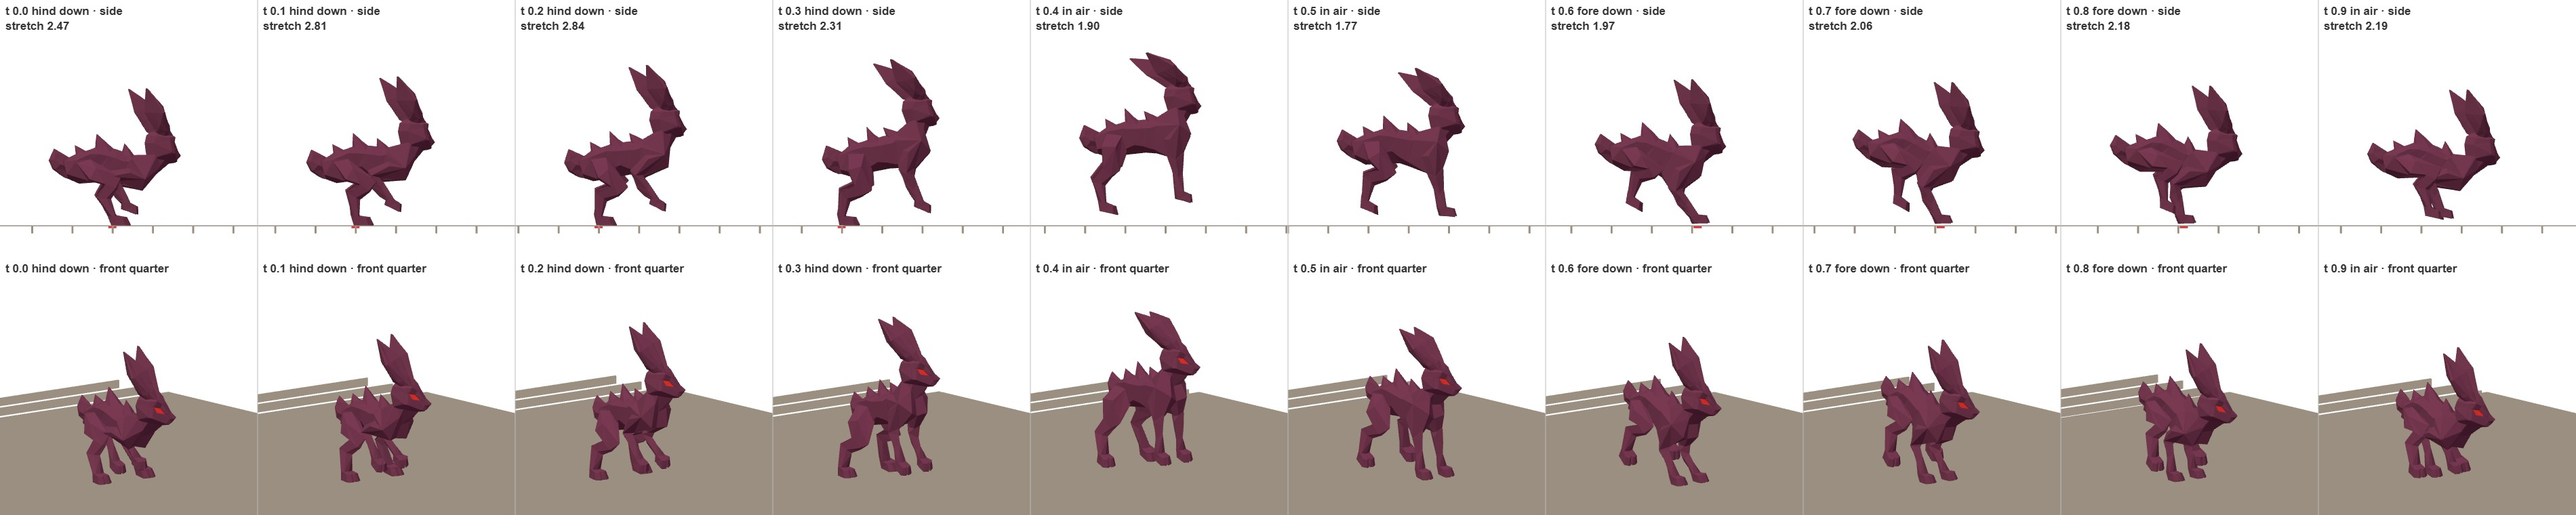
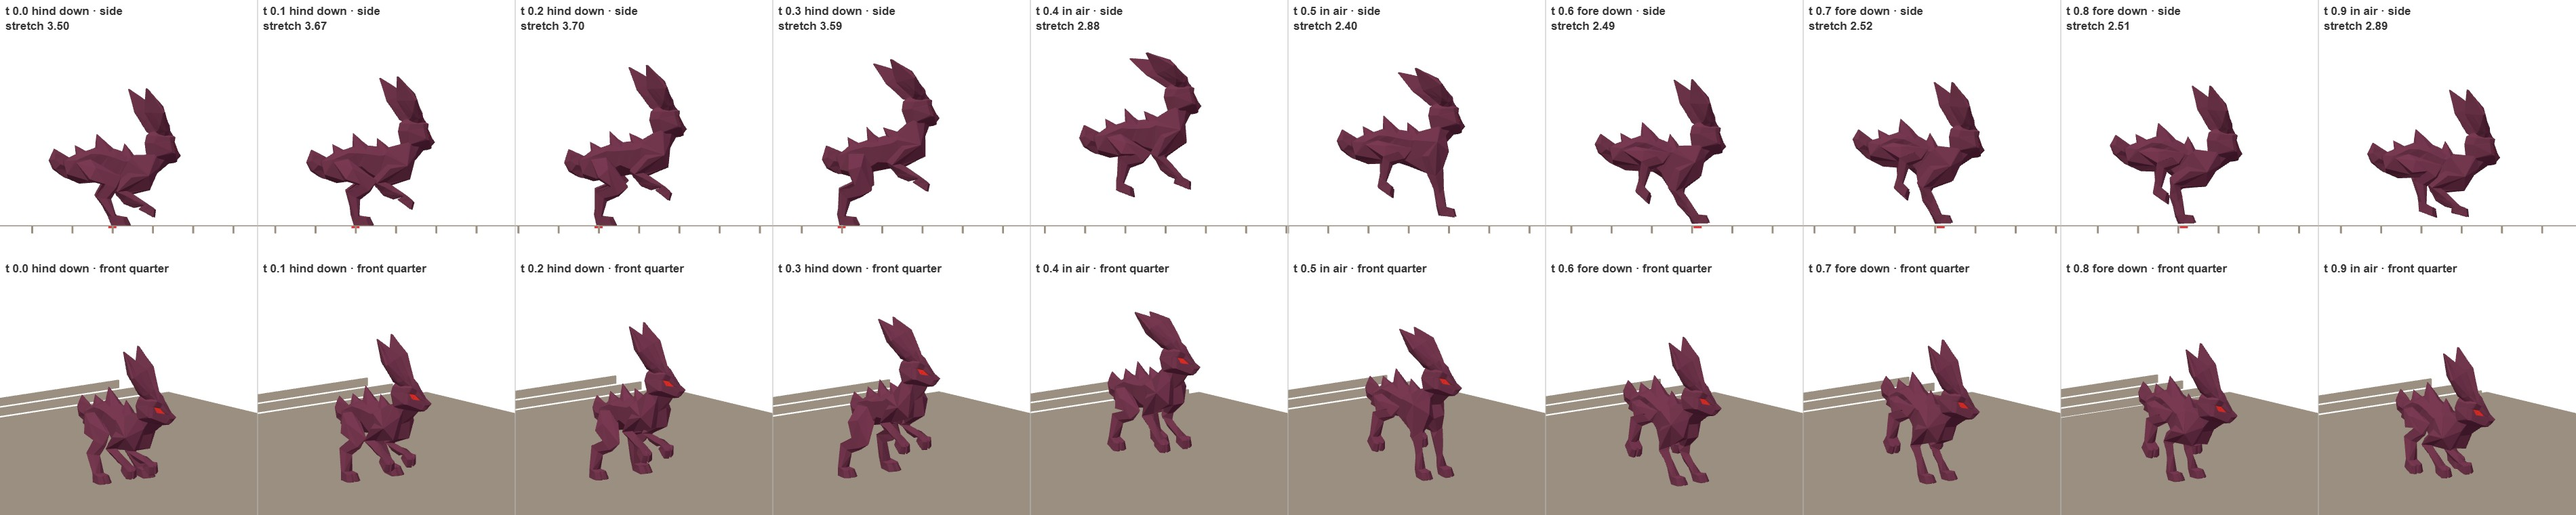
Hare bound: tuck the legs in flight
Paws in the air are drawn in under their own joint soon after leaving the
ground, held, then released to reach for the next spot. Planted spots and
timing are unchanged; the contact check still passes.

diff --git a/src/moves.js b/src/moves.js
@@ -49,10 +49,16 @@ function hareBound(bones,opt={}){
   o.Spine_0=[B.p];o.Spine_1=[B.f-B.p];o.Head_1=[-B.f*.8];o["1_Left_Limb_0"]=[-B.p*.6];
   const air=Math.sin(Math.PI*Math.min(1,Math.max(0,(t-.25)/.35)));o.Head_2=o.Ear2_0=[.15+.3*air];o.Head_3=o.Ear2_1=[.15*air];
   for(const leg of legs){
-   const[t0,t1]=leg.on,down=t>=t0&&t<=t1,at=x=>leg.spot-stride*(x-leg.tm);let T,toe=0;
+   const[t0,t1]=leg.on,down=t>=t0&&t<=t1,at=x=>leg.spot-stride*(x-leg.tm),top=B.top(leg);let T,toe=0;
    if(down)T=[at(t),leg.foot[1]];
-   else{const s=((t-t1+1)%1)/(1-(t1-t0)),e=s*s*(3-2*s),up=Math.sin(Math.PI*s);T=[at(t1)+(at(t0)-at(t1))*e,leg.foot[1]+(leg.front?.10:.13)*up];toe=-.5*up;}
-   const top=B.top(leg),r=reach(top,T,leg.a,leg.b,leg.front?-1:1),parent=leg.front?B.f:B.p;
+   else{
+    // in the air the paw travels from the spot it left to the next one, and on the way is drawn in to a tucked
+    // point close under its own joint: quickly after leaving the ground, held, then let go to reach for the next spot
+    const s=((t-t1+1)%1)/(1-(t1-t0)),e=s*s*(3-2*s),up=Math.sin(Math.PI*s),ss=(a,b,x)=>{x=Math.min(1,Math.max(0,(x-a)/(b-a)));return x*x*(3-2*x);},w=ss(0,.2,s)*(1-ss(.7,1,s))*.92;
+    const path=[at(t1)+(at(t0)-at(t1))*e,leg.foot[1]+.06*up],tuck=add(top,leg.front?[.07,-.2]:[.06,-.21]);
+    T=[path[0]+(tuck[0]-path[0])*w,path[1]+(tuck[1]-path[1])*w];toe=-.7*up;
+   }
+   const r=reach(top,T,leg.a,leg.b,leg.front?-1:1),parent=leg.front?B.f:B.p;
    o[leg.names[0]]=[r.a-parent];o[leg.names[1]]=[r.b-r.a];if(leg.still)o[leg.still]=[0];o[leg.names[2]]=[toe-r.b];
    o._down.push(down);if(down){o._marks.push(T[0]);o._short=Math.max(o._short,r.short);}
   }
